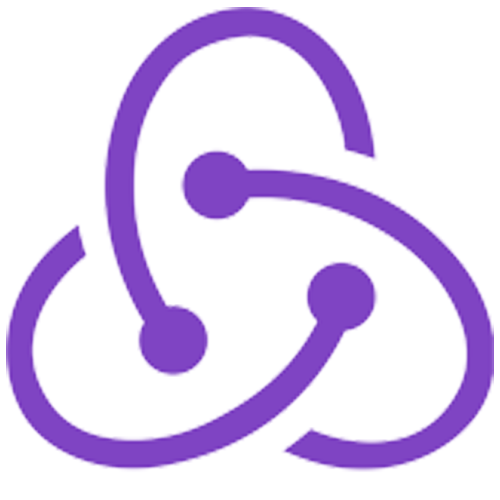
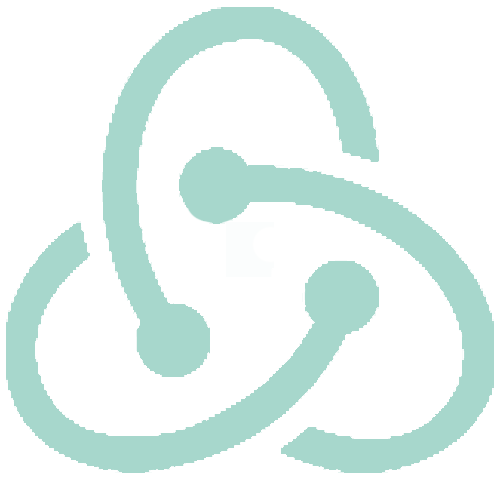
optimoze for small screens

Changed region(s): [[0.0, 0.45, 0.78, 0.96], [0.36, 0.27, 0.99, 0.96], [0.18, 0.0, 0.78, 0.78]]

diff --git a/styles/main.css b/styles/main.css
@@ -826,7 +826,7 @@ nav .active {
   opacity: 0;
   height: 4.5rem;
   width: 4.5rem;
-  background-image: url(../assets/redux.png);
+  background-image: url(../assets/redux-green.png);
   background-repeat: no-repeat;
   background-size: 75%;
   background-position: center;

diff --git a/styles/_satelite.scss b/styles/_satelite.scss
@@ -71,7 +71,7 @@
   opacity: 0;
   height: $skill-box;
   width: $skill-box;
-  background-image: url(../assets/redux.png);
+  background-image: url(../assets/redux-green.png);
   background-repeat: no-repeat;
   background-size: 75%;
   background-position: center;
